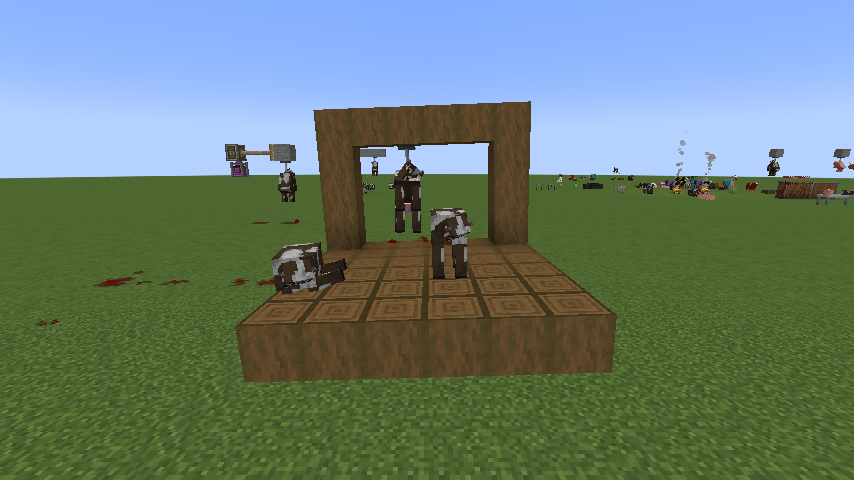
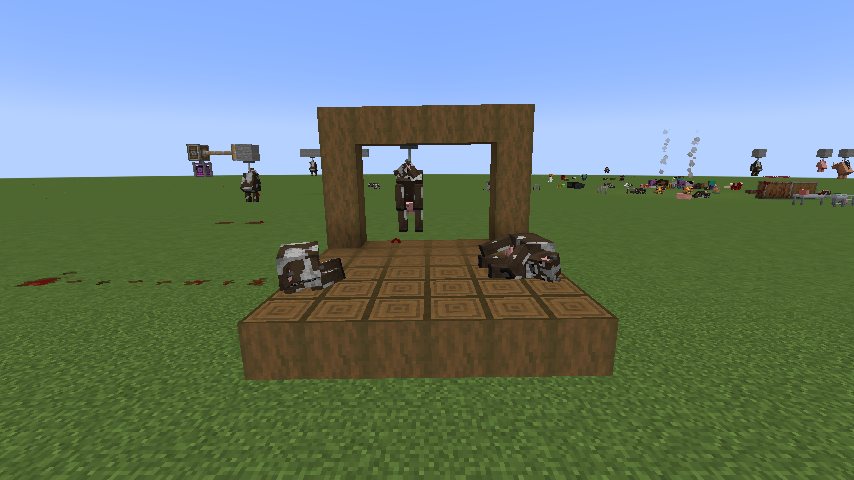
Docs: dead animals look dead (15.32, numbered at merge), before and after; changelog, README count, audit; the pictures
Claude-Session: https://claude.ai/code/session_01VFhLqCRBB9EnozqpaTh1tP

diff --git a/docs/ARCHITECTURE-PROPOSAL.md b/docs/ARCHITECTURE-PROPOSAL.md
@@ -5048,3 +5048,162 @@ Butchery by group was shadowed for every vanilla mob by its generated table; now
 - Section 4.1's client-sent rigs and a `/bloodandbones rig export` command are not built; a modded mob's own rig comes
   from a datapack or a rig target (docs/MODDED-MOBS.md). A family by Java class (docs/PARTS-AND-TRAITS.md 3.1, through a
   throwaway instance) is not built either; tags and the archetype rules cover a modded mob meanwhile.
+
+### 15.32 (numbered at merge) Dead animals look dead: no carcass is left standing on its legs (verified)
+
+This takes docs/BRIEF-AUDIT.md package 1 further ("dead animals should look dead, limp and heavy"). It needs no open
+decision. The physics measurement (`-Dbloodandbones.debug.rig_compare=true`) was run eight times over on main's physics
+and on this work's, both with this work's measurement, and every number below is from those two runs unless it says
+otherwise.
+
+**Why a carcass stood.** The showcase's cow struck in the face stood where it was, and the cow set down on a ship's deck
+stood on it. Measured, three things held a carcass up, and the resting form then pinned it that way for good:
+- **Legs that cannot fold.** A leg is one rigid body on one joint at the hip. Four of them hold a body up: nothing tips
+  one set down standing, and splayed to the ends of their joints they prop it like a trestle. A pig struck in the face
+  swept its front legs back to the end of their swing (75 degrees) and stood on them as on struts, its torso 0.23 blocks
+  up where it had stood 0.38 up. A cow struck in the face sat up like a dog, its rear on the ground and its chest a
+  third of a block up on straight front legs, which the measurement took for down (its lowest corner touched the
+  ground).
+- **A blow too weak to topple it.** A blow to the head is held to what the head can take (15.28), and the rest of it was
+  lost: a polar bear struck in the face moved 0.04 blocks and stood, upright to within a hundredth of a degree. A zombie
+  or a villager struck from the side on its arm stood too.
+- **The resting form.** Once still for three seconds it folds into one body, pinned as it lies: standing.
+- Spinning the torso about its spine, the first thing tried, did not work: the turn pressed its legs on that side into
+  the ground, which pushed it back, and a polar bear given six such turns came back upright each time.
+
+**What was built.**
+- **Its legs give way** (`carcass/CarcassSlump`). A loose carcass stands when its torso is within 45 degrees of upright,
+  a leg reaches below it by more than a quarter as far as its legs held it (at half, a horse held up on splayed legs at
+  half its height passed), and nothing (the ground, a rack, a deck, another carcass) is that close under the torso; or,
+  on four legs, when it sits up on its front ones, the front of its belly that high and its rear lower. One pitched onto
+  its nose with its rear up is left as it is: that is how a blow from behind leaves it. After half a second standing
+  nearly still (on a ship under way, still on the deck), the whole carcass is set turning over the feet on the side it
+  leans to (standing straight, one side or the other), every part together so no joint fights it, a tenth faster than it
+  takes to carry its middle over those feet, the same for any weight, as a fall is; its legs slide out the other way at
+  3 blocks a second, so it goes down nearer where it stood (a cow set down standing lay 1.8 blocks from where it stood
+  without, 1.7 with; at 5 a sheep went on over onto its back). Until it is down it is not let rest. It tries six times,
+  each a little harder, and then a carcass wedged upright somewhere is let rest as it is. Hung on a hook it is lifted
+  off its legs and never gives way.
+- **Held where it is worked.** A carcass standing on a table or a machine is held there, not tipped off it (a new block
+  tag, `bloodandbones:holds_carcasses`: the Butcher's, Surgery and Steel Tables, the Bleeding Rack and the four
+  machines; a datapack adds its own). Tipped, a cow set down on a Surgery Table or a Mangler, a block wide, went over
+  the side.
+- **Dragged along on its feet** (a sheep hooked by a hind leg slid along standing, facing the wrong way) its legs give
+  way however it moves, and it goes down away from the hooked leg, which the pull draws out from under it, so that leg
+  ends on top, free to lead. Not a body that stands upright (a zombie): the leg it is dragged by pulls it off its feet,
+  and it already came round (a zombie 21 degrees off, a villager 9). Its legs do not slide out while it is dragged: they
+  kicked out under a cow pulled by a hind leg, and it came round rear first a little less often (60 degrees or more off
+  in 2 runs of 30; none in 90 without).
+- **A blow carries on into the body.** Of what a light part struck could not take (15.28's limit), a fifth goes on into
+  the torso where that part's limb joins it (`CarcassAssembler.blow`). At two fifths a cow struck in the face slid 1.7
+  blocks, as it did before the limit.
+
+**Tests.** `PhysicsTests.dead{Cow,Pig,PolarBear,Horse,Sheep}NeverSettlesStanding`: four of a kind on open ground, struck
+in the face, in the flank and from behind, and one built where it stood and not struck at all, each watched until it
+folds, which it must, and then down (`RigScenarios.stood`: tipped 45 degrees or more, or its torso no higher than a
+quarter of how high it stood, and not sitting up on its front legs). Run on main's physics all five failed, ten
+carcasses of the twenty standing: every one not struck; struck in the face the cow sitting up (15 degrees, its lowest
+corner 0.07 up), the pig on its swept-back legs (0.23 of 0.38 up), the polar bear untouched (0.597 of 0.601 up, 0.04
+from where it stood) and the sheep sitting up; struck from behind the horse (0.746 of 0.757 up). Now all twenty lie
+down: the struck ones and the unstruck on their sides, except those struck from behind, pitched onto the nose (the cow
+at 15 degrees, the pig at 64, the sheep at 22, the bear at 10; the horse went over onto its side), and all rest within
+200 ticks. The test's log says how far each lies from where it stood: set down standing, a sheep 0.9 blocks, a pig 1.1,
+a horse 1.2, a polar bear 1.6, a cow 1.7. `blowToTheHeadSnapsItBackWithoutFlingingIt` now judges the cow's travel along
+the blow (1.25 blocks; its limit stays 1.5) and in any direction (1.36; limit 2), since the cow then goes over onto its
+side.
+
+**Physics, before and after** (eight runs of every scenario on the twelve mobs; mobs meeting the bar in most runs, of
+twelve, runs meeting it, of 96, and the median of all runs):
+
+| Bar | Before | After |
+|---|---|---|
+| Face: down, not left standing | 7 (53) | 12 (96) |
+| Behind: down, not left standing | 10 (84) | 12 (96) |
+| Flank: down, not left standing | 11 (88) | 12 (96) |
+| Flank: on its side, fallen away from the blow | 7 (56) | 9 (72) |
+| Flank: leaning within 60 degrees of the blow's way | 8 (67), 44 degrees off | 10 (80), 33 |
+| Hind-leg hook: rear first within 45 degrees | 3 (35), 64.5 degrees off | 6 (53), 39.5 |
+| Face: knocked back 1.5 blocks or less | 11 (85), 0.90 | 10 (81), 0.94 |
+| Face: within 1.5 blocks of where it stood | 11 (82), 0.94 | 8 (64), 1.22 |
+| Behind: 20 degrees nose down at rest; head on the ground | 5 (40); 8 (65) | 5 (40); 8 (67) |
+| Head hook, held up, hung, steps, cut leg, joints, sinking, folding | within a few runs of where they were | |
+
+Left standing, by mob, before: struck in the face the cow, llama, pig, polar bear and sheep (every run), struck from
+behind the horse (every run) and the llama (half), struck in the flank the zombie. After: none. Struck in the face each
+now lies on its side, 90 degrees over, where before the cow, llama, pig and sheep sat up at 9 to 21 degrees and the bear
+stood at 0. The last bar is the price: going over onto its side moves the torso's middle sideways, so a carcass struck
+in the face lies 1.22 blocks from where it stood where it lay 0.94 (the polar bear 1.74 where it stood 0.04); knocked
+back along the blow it goes about as far as before (0.94, 0.90), and the bear 0.13.
+
+**Hooked by a hind leg** (the brief: "comes round arse-first"; degrees off rear first while dragged, median of eight):
+sheep 134 to 10, llama 77 to 19, polar bear 121 to 42, wolf 105 to 94, pig 52 to 49, horse 50 to 63, chicken 83 to 126;
+the cow (15 to 19), villager (9) and zombie (21 to 20) as they were. The measurement hooks a carcass five ticks after it
+is built standing, and the sheep and llama were dragged along on their feet; going down away from the hooked leg, they
+come round. The pig comes round at about 49 degrees, just short of the bar's 45, as before. The horse and the chicken do
+not, and the horse got worse: the horse tumbles over its back and on while dragged (its tilt from upright swung between
+30 and 160 degrees through a drag), which damping its roll as its turn is damped (3 and 8 a second) did not help; the
+chicken's leg joins its body under its middle, so which end of it leads says little (the measurement now also reports
+whether the hooked part itself leads, `part_leads_deg`: the chicken's leg is 62 degrees off leading, the sheep's 10).
+Tried and dropped, each over eight runs: falling toward the hooked leg (pig 62, horse 62), giving way sooner (3 ticks:
+pig 61, horse 71), a weaker or stronger damping of the dragged carcass's turn (1.5 and 3 a second for 6: no change
+beyond the noise), and damping its roll. So two of the five the audit named (sheep, llama) now come round rear first,
+the pig nearly, and the horse and the chicken not.
+
+**Flank blows.** The zombie and the villager, struck on the arm, now go down on their side away from the blow (the
+zombie from 0.8 degrees over to 81, 1 degree off the blow's way; the villager fell over before, but forward or back, 90
+degrees off the blow's way, and now falls away from it, 8 off). The wolf went down on its side away from the blow before
+and still does (90 degrees, 20 off). Not improved: the chicken, struck on its wing, falls forward or back rather than to
+the side, and a little less far (66 degrees over where it went 89, 80 off the blow's way both times; its two legs side
+by side hold it up sideways and its head end is the heavier); the rabbit, struck on its body with the whole blow, slides
+1.7 blocks and tips 31 degrees (its body is wider than it is tall, and its haunches and splayed front legs prop it: it
+lies down, belly to the ground, but not on its side); the spider, struck on a leg held out flat, lies flat, belly on the
+ground, legs sprawled (0.3 degrees): down, but not over. Nothing about which way it falls is scripted, so these are left
+to their shapes.
+
+**What else it changed, and why the tests changed.** Carcasses built standing are the setup of many tests, and every one
+of them now goes over before it rests:
+- The Magnet Coil and the Grappling Spool pulled a carcass by 0.12 and 0.11 blocks a second a tick, less than the
+  ground's grip on one lying on its side: only one left standing slid along, on its feet.
+  `magnetCoilAtHighSpoolDrawsInACarcass` (its cow "lying seven blocks off" had in fact been standing) drew the lying cow
+  0.15 blocks. Both now pull at least 0.18 (`ModuleActions.GRIP`): the lying cow comes in 3.5 blocks in two seconds, and
+  the spool hands it to the Meat Hook.
+- Tests that hook a named leg of a cow that has gone over hook the one on top (`lyingCarcassHooksThePartAimedAt`,
+  `meatHookDoesNotHookThroughAWall`, `meatHookDragsByLeg`): the one under it is hidden behind the other, or pinned under
+  the body (dragged by a pinned front leg, the leg trailed its target by 1.3 blocks, 1 run in 20).
+- Tests timed on a cow folding a fixed time after it is built wait for it to fold (`restingFormFoldsAndUnfolds`,
+  `punchWakesRestingCarcass`, `restingCarcassFallsWhenUnsupported`); the fold/unfold test compares with the poses of the
+  last tick before it folded. The rigged-mob assembly tests look once a falling carcass has landed (a ravager going over
+  swung a leg 2.8 blocks up mid-fall).
+- Two cows on a chain are set down facing along it (`trolleysQueueOnAChain`: facing across, they went over onto each
+  other, one under the other where its trolley could not hoist it), and the cow meant to rot in
+  `rottenCarcassFallsApart` faces away from the blue ice (going over toward it, it came within the cold's reach).
+
+**The showcase.** `showcase_1`, "machines from above", was photographed from the ground: the player was put four blocks
+up but not flying, and fell before the picture, so the machines sat at its top edge. A view can now hold the player
+where it was put (`View.fly`), and this one does: the row of machines, each with its carcass, is in the middle of the
+picture. The dropped cow on the flying ship is photographed 260 ticks after it lands, not 180 (it goes over before it
+rests; the test of it logs 169). Looked at, before (main) and after: `physics_1`, the three struck cows: before, the one
+struck in the face stood in the middle on straight legs; now it lies on its side, legs toward the camera, beside the one
+struck in the flank; the one struck from behind lies nose down as before. `contraption_3`, the flying ship: before, the
+cow dropped on the deck stood on it; now both cows on the deck lie on their sides, and the log says the dropped one
+rests pinned to the deck. `showcase_0`, the row of carcasses: before, a pig was balanced upright on its snout; now it
+lies on its side. `physics_2` (the three hung cows, one swinging, one a leg short with the leg below it) is unchanged.
+In docs/screenshots, `ship_moving_carcasses.png` (`contraption_2`: the cow resting on the flying ship's deck now lies on
+its side), `ship_dropped_cow_rests.png` (`contraption_3`) and `showcase_1.png` are the new pictures, and
+`struck_cows_down.png` is `physics_1`. `physics_0`, the cow dragged by a hind leg seen from in front of its dragger,
+shows nothing either before or after: the third-person camera in front of the player is blocked and pulled in to a
+close-up of the player (the cow, which starts standing beside the player, was ahead of them, head first, crosswise
+after), as 15.28 noted in one run of three. Left as it was.
+
+**The suite** is 626 tests (five new) and passed three times in a row. Two failures along the way were not from this
+work and did not come back: once the test server failed to start ("Found unused register callbacks" from Create's
+registration; the same run again started), and once `diggerDigsUp` found nothing in 400 ticks, its minion never leaving
+where it was made (it passed 20 runs of 20 on its own and in the next five full runs).
+
+**Left open.**
+- The horse, pig and chicken hooked by a hind leg, and the chicken, rabbit and spider struck in the flank (above).
+- A carcass going over moves its middle a block or more, more than a real body buckling at the knees would; the rigs
+  have no knees.
+- A carcass on a table or a machine still stands on it if set down standing (it is held there): the showcase's pig on
+  its Guillotine and zombie on its Beheader stand as before.
+- `physics_0`'s camera (above).

diff --git a/CHANGELOG.md b/CHANGELOG.md
@@ -20,8 +20,14 @@ Everything below is in development builds only; the art is placeholder (see the 
   fall apart after a day.
 - The Meat Hook takes the part you aim at, on a carcass lying still too, but never through a wall
   or a ship's side. Hook the head and it follows head first. Hook a cow by a hind leg and walk off
-  and it comes round rear first; about half the animals do so far (a sheep or a pig still goes on
-  head first).
+  and it comes round rear first; about half the animals do so far.
+- A dead animal no longer comes to rest standing on its legs, which looked alive: one left standing
+  (struck in the face, or set down on a ship's deck), sitting up on its front legs, or held up on
+  splayed legs has its legs give way, and it goes over onto its side where it stood. One on a table
+  or a machine is held there. A zombie or a villager struck from the side on its arm now goes down.
+- Hooked by a hind leg while still on its feet, an animal goes down away from that leg and comes
+  round rear first: a sheep and a llama now do (a sheep used to be dragged along on its feet,
+  facing the wrong way); a pig about as often as before, a horse and a chicken not yet.
 - A carcass dragged along no longer swings on past the way it should trail and rocks there: a cow
   dragged by a hind leg now and then ended up crosswise.
 - The killing blow lands where it hits: struck in the flank most carcasses go down on their side,
@@ -259,6 +265,8 @@ Everything below is in development builds only; the art is placeholder (see the 
   soul blood by the block) and Barometric Vent (a puff up and a slow hover).
 - The Grappling Spool gives a carcass it reels in time to arrive. One six blocks off often stopped a step short and
   was never handed to the Meat Hook.
+- The Magnet Coil and the Grappling Spool now pull in a carcass lying on its side; their pull was
+  less than the ground's grip, so only one left standing on its feet slid along.
 - The Grappling Spool hands a carcass to the Meat Hook as soon as it is within the hook's reach. One that the ground
   stopped a little further off than arm's length was never handed over.
 - Set bonuses: four or more flesh grafts heal you from what you hit and rot half as fast; four or more

diff --git a/README.md b/README.md
@@ -119,11 +119,11 @@ incremental. `./gradlew runClient` / `runServer` / `runData` are configured by M
 
 ### Development aids
 
-- `./gradlew runGameTestServer` runs the game tests headless (621: every rigged mob and baby, mobs with no rig of their own and weight classes,
+- `./gradlew runGameTestServer` runs the game tests headless (626: every rigged mob and baby, mobs with no rig of their own and weight classes,
   butchery and its three yield paths, rot, cold air, bleeding, machines, their motion and their part filters, cooking and display, decoration, surgery and its screen's choices, the body through a real death, organs, implants, backtanks, carcass armour and its traits, trait effects, minions and their tasks, movement and mounts, chains, recipes
   and the soul blood line on Create's machines, bloodless mode (no game logic reads it; no gory word or wet sound
   left), advancements and sounds, what a dozen carcasses at once cost the server, and the carcass physics: which way a
-  hooked carcass turns and a struck one falls, and every block and carcass on Create contraptions and Sable ships).
+  hooked carcass turns and a struck one falls, that no dead animal is left standing on its legs, and every block and carcass on Create contraptions and Sable ships).
   `-Dbloodandbones.debug.only=name,name` runs only those tests, and `-Dbloodandbones.debug.repeat=N` runs them N times.
   To time what carcasses cost, run one of these on its own with `-Dbloodandbones.debug.cost=N`:
   `-Dbloodandbones.debug.only=dozenCarcasses` prints the server's tick times with N dozen carcasses (one to four) made

diff --git a/docs/BRIEF-AUDIT.md b/docs/BRIEF-AUDIT.md
@@ -102,6 +102,14 @@ The packages are in order of how much their gap hurts the brief:
 
 ### 1. Physics: where you hook it and where the blow lands
 
+Built in part (ARCHITECTURE 15.28, and 15.32 "Dead animals look dead", numbered at merge): the part aimed at is hooked,
+the blow lands where it hits, heads loll, hung carcasses swing, bone and plate weigh more, the tests check directions.
+15.32: no dead animal is left standing on its legs any more (struck in the face, set down on a ship's deck, sitting up
+on its front legs): its legs give way and it goes over onto its side, 12 of 12 mobs down after every blow where 7 were
+after a blow in the face; hooked by a hind leg, 6 of 12 come round rear first where 3 did (the sheep and the llama now;
+the pig nearly; the horse and the chicken not). Still open: the horse, pig and chicken hooked by a hind leg, the chicken,
+rabbit and spider struck in the flank, and decisions 4 and 5. The rest of this section is kept as it was written.
+
 **Why.** The brief says: "This is the part that's been hardest and I care about it most."
 - Hook a hind leg and the animal comes round arse-first; hook the head and it follows head-first.
 - A blow to the flank drops it sideways; one from behind pitches it onto its nose. "Nothing about which way it falls should be scripted."
